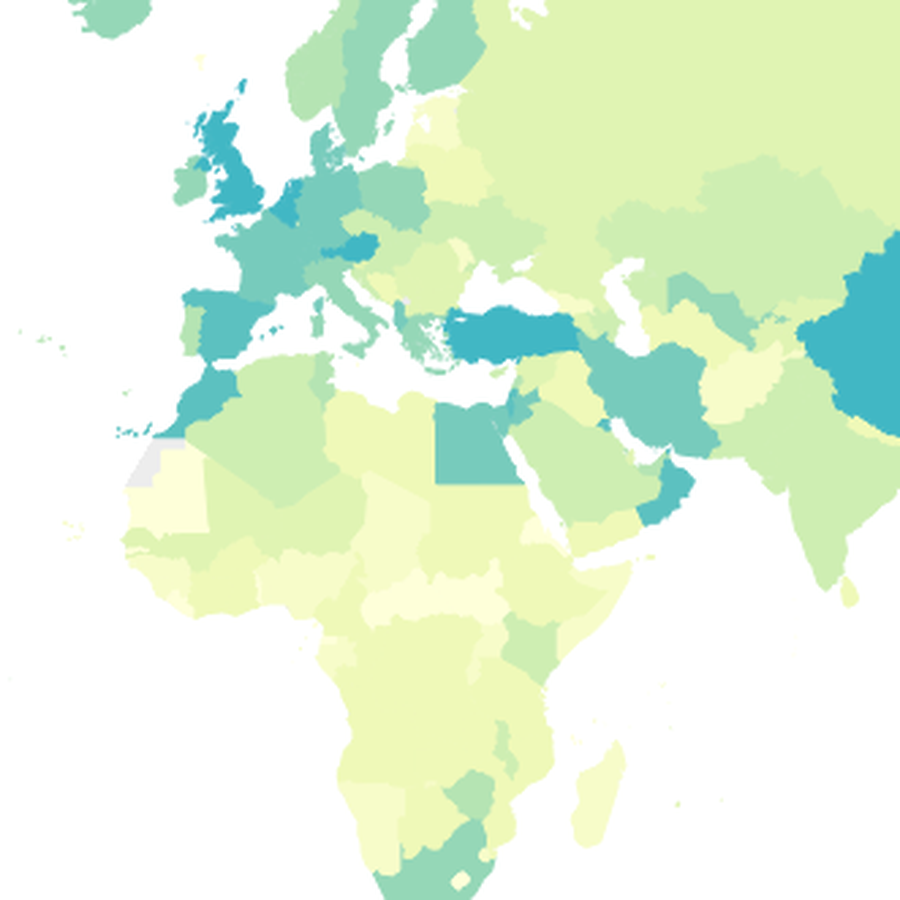
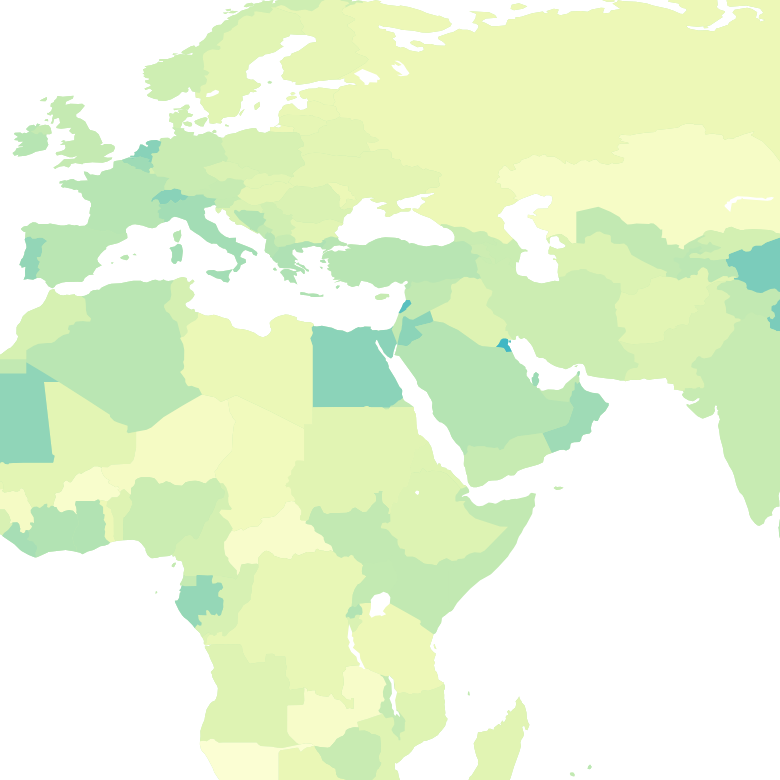
Update FAO Yields card, optimize project thumbnails for load time

diff --git a/index.html b/index.html
@@ -198,7 +198,7 @@
     <div class="proj-grid">
 
       <a class="proj-card" href="https://github.com/aitor1717/pau_pau" target="_blank" rel="noopener">
-        <div class="proj-media"><img src="assets/pau-pau.png" alt="pau pau" loading="lazy" decoding="async"></div>
+        <div class="proj-media"><img src="assets/pau-pau.jpg" alt="pau pau" loading="lazy" decoding="async"></div>
         <div class="proj-overlay">
           <div class="proj-overlay-name">pau pau</div>
           <p class="proj-overlay-desc">Self-building CLI agent that writes and improves its own Python tools.</p>
@@ -228,13 +228,13 @@
         <div class="proj-media"><img src="assets/fao-yields.png" alt="FAO Yields dashboard preview" loading="lazy" decoding="async"></div>
         <div class="proj-overlay">
           <div class="proj-overlay-name">FAO Yields</div>
-          <p class="proj-overlay-desc">What does each country have with what it's got in an interactive dashboard.</p>
-          <div class="proj-overlay-tags">Tableau · FAO data</div>
+          <p class="proj-overlay-desc">What does each country do with what it's got in an interactive dashboard.</p>
+          <div class="proj-overlay-tags">Python · Streamlit</div>
         </div>
       </div>
 
       <a class="proj-card" href="https://aitor1717.github.io/canary-ml/" target="_blank" rel="noopener">
-        <div class="proj-media"><img src="assets/canary-ml.png" alt="canary-ml dashboard preview" loading="lazy" decoding="async"></div>
+        <div class="proj-media"><img src="assets/canary-ml.jpg" alt="canary-ml dashboard preview" loading="lazy" decoding="async"></div>
         <div class="proj-overlay">
           <div class="proj-overlay-name">canary-ml</div>
           <p class="proj-overlay-desc">Watches production ML models for drift and anomalies in real time, no extra infrastructure.</p>
@@ -243,7 +243,7 @@
       </a>
 
       <a class="proj-card" href="https://github.com/aitor1717/stripify" target="_blank" rel="noopener">
-        <div class="proj-media"><img src="assets/stripify-square.png" alt="stripify preview" loading="lazy" decoding="async"></div>
+        <div class="proj-media"><img src="assets/stripify-square.jpg" alt="stripify preview" loading="lazy" decoding="async"></div>
         <div class="proj-overlay">
           <div class="proj-overlay-name">stripify</div>
           <p class="proj-overlay-desc">Analyzes your Spotify listening history and uses GPT to recommend what to play next.</p>
@@ -252,7 +252,7 @@
       </a>
 
       <a class="proj-card" href="https://resdomus.duckdns.org/" target="_blank" rel="noopener">
-        <div class="proj-media"><img src="assets/res-domus.png" alt="Res Domus dashboard preview" loading="lazy" decoding="async"></div>
+        <div class="proj-media"><img src="assets/res-domus.jpg" alt="Res Domus dashboard preview" loading="lazy" decoding="async"></div>
         <div class="proj-overlay">
           <div class="proj-overlay-name">Res Domus</div>
           <p class="proj-overlay-desc">Warehouse manager, spending and stock tracking, parsing, and an AI assistant.</p>
